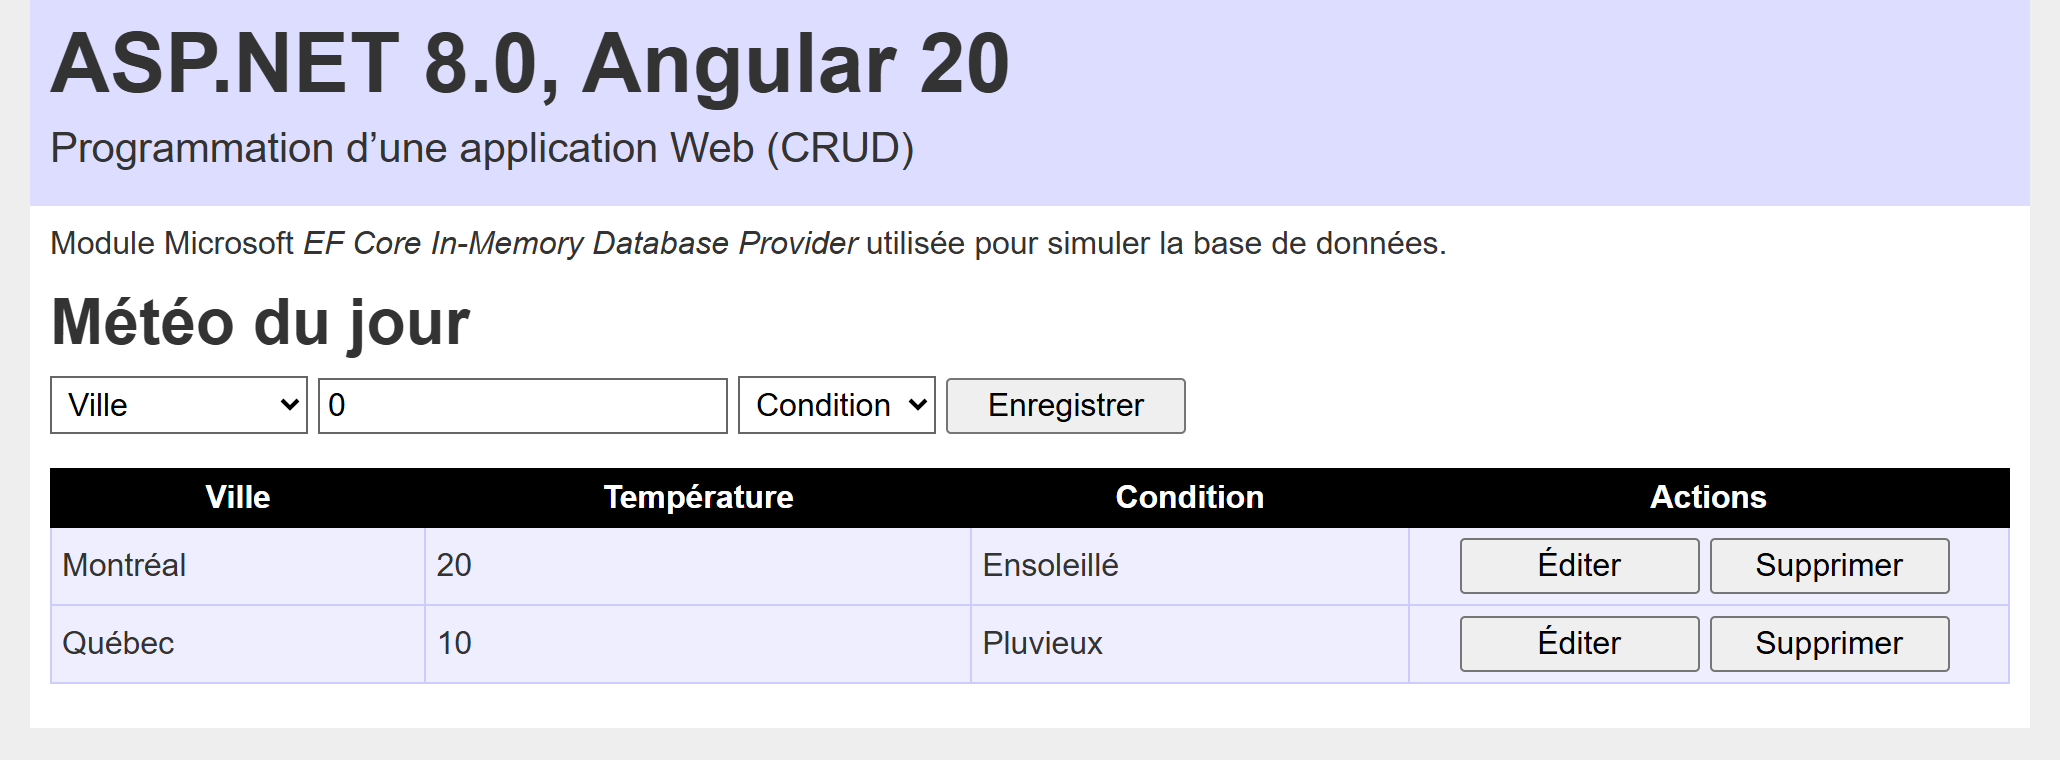
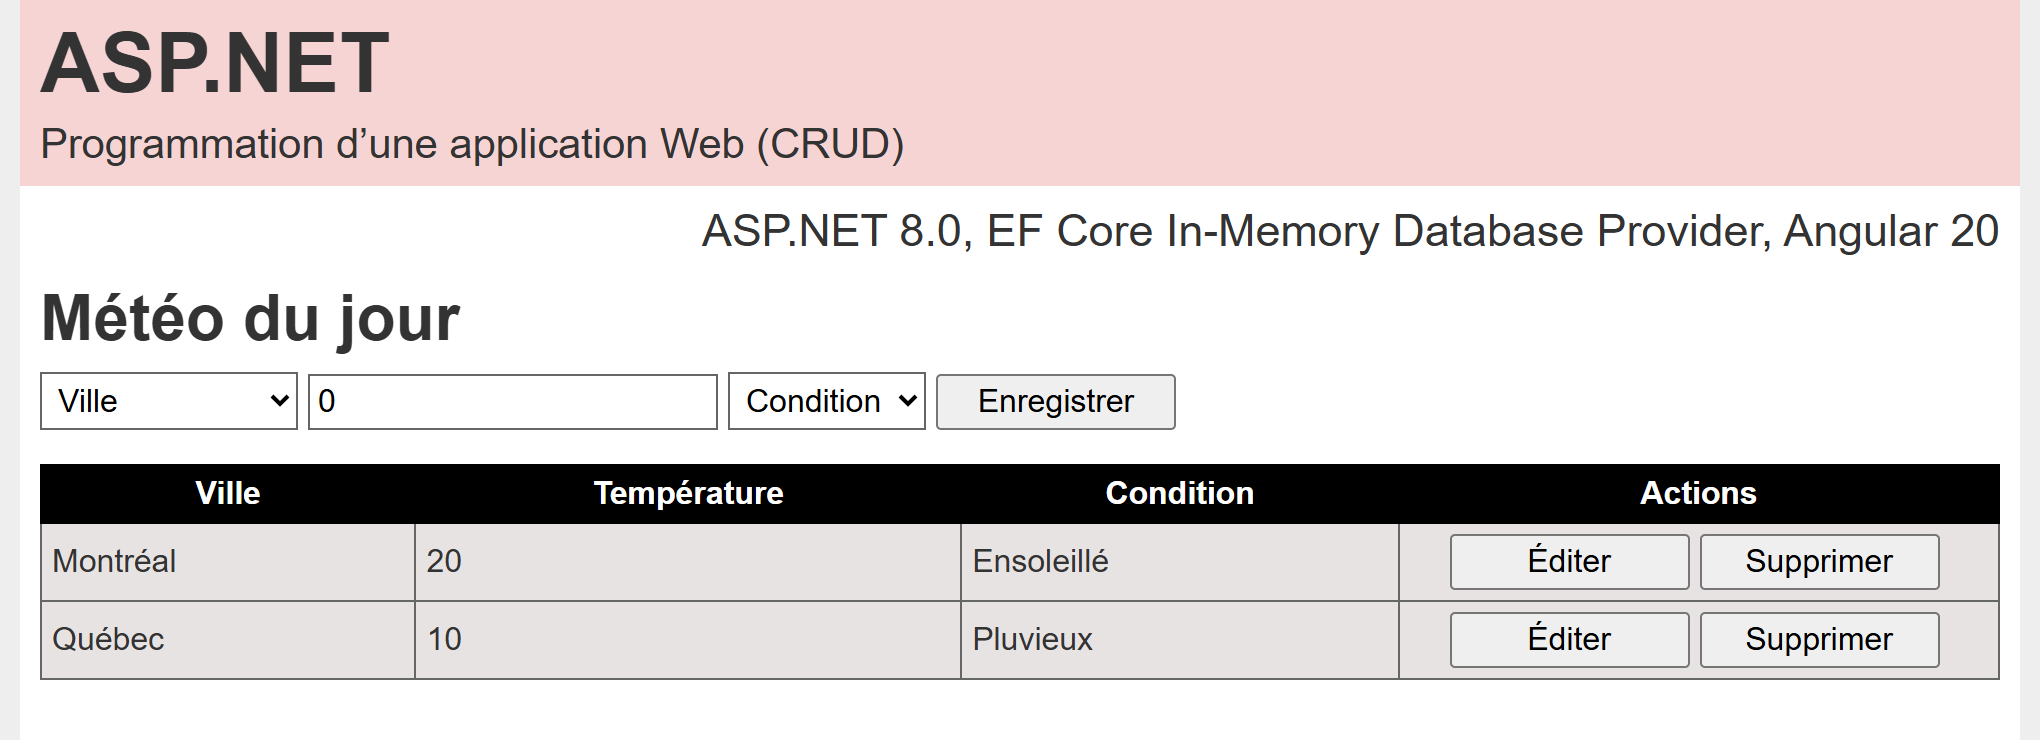
Exercice ASP.NET

diff --git a/angular05/src/styles.scss b/angular05/src/styles.scss
@@ -1,3 +1,6 @@
+$color01: hsl(0, 70%, 90%); // Saturation: 70
+$color02: hsl(0, 10%, 90%); // Saturation: 10
+
 * {
   box-sizing: border-box;
 }
@@ -39,19 +42,18 @@ header {
     padding: 10px;
     max-width: 1000px;
     min-width: 280px;
-    background-color: #ddf;
+    background-color: $color01;
     .themetitle {
-      margin: 0 0 8px 0;
+      margin: 0 0 6px 0;
       padding: 0;
       font-size: 2.6rem;
-      font-weight: bold;
-      line-height: 2.8rem;
+      font-weight: 700;
+      line-height: 2.8rem
     }
     .subtitle {
-      margin: 0 0 8px 0;
-      padding: 0;
+      margin: 0;
       font-size: 1.3rem;
-      line-height: 1.4rem;
+      line-height: 1.4rem
     }
   }
 }
@@ -61,7 +63,12 @@ main {
     padding: 10px;
     max-width: 1000px;
     min-width: 280px;
+    min-height: 400px;
     background-color: #fff;
+    .technologies {
+      font-size: 1.4rem;
+      text-align: right;
+    }
     h2 {
       margin: 12px 0 8px 0;
       font-size: 2rem;
@@ -78,7 +85,7 @@ main {
   min-width: 700px;
   border-collapse: collapse;
   border: none;
-  background-color: #eef
+  background-color: $color02;
 }
 .table45 thead {
   color: #fff;
@@ -90,7 +97,7 @@ main {
 }
 .table45 td {
   padding: 5px;
-  border: 1px solid #ccf;
+  border: 1px solid #666;
 }
 .table45 td:nth-child(4) {
   width: 300px;

diff --git a/angular05/src/app/app.html b/angular05/src/app/app.html
@@ -1,7 +1,7 @@
-<header class="color01">
+<header>
   <div class="container">
     <div>
-      <p class="themetitle">ASP.NET 8.0, Angular 20</p>
+      <p class="themetitle">ASP.NET</p>
     </div>
     <div>
       <p class="subtitle">Programmation d’une application Web (CRUD)</p>
@@ -10,7 +10,7 @@
 </header>
 <main>
   <div class="container">
-    <p>Module Microsoft <i>EF Core In-Memory Database Provider</i> utilisée pour simuler la base de données.</p>
+    <p class="technologies">ASP.NET 8.0, EF Core In-Memory Database Provider, Angular 20</p>
     <router-outlet></router-outlet>
   </div>
 </main>

diff --git a/angular05/src/index.html b/angular05/src/index.html
@@ -12,7 +12,7 @@
   <meta name="description" content="Exercice de programmation">
   <meta name="author" content="Ghislain Coutu">
   <link rel="icon" type="image/x-icon" href="favicon.ico">
-  <title>ASP.NET, Angular</title>
+  <title>ASP.NET</title>
 </head>
 <body>
   <app-root></app-root>